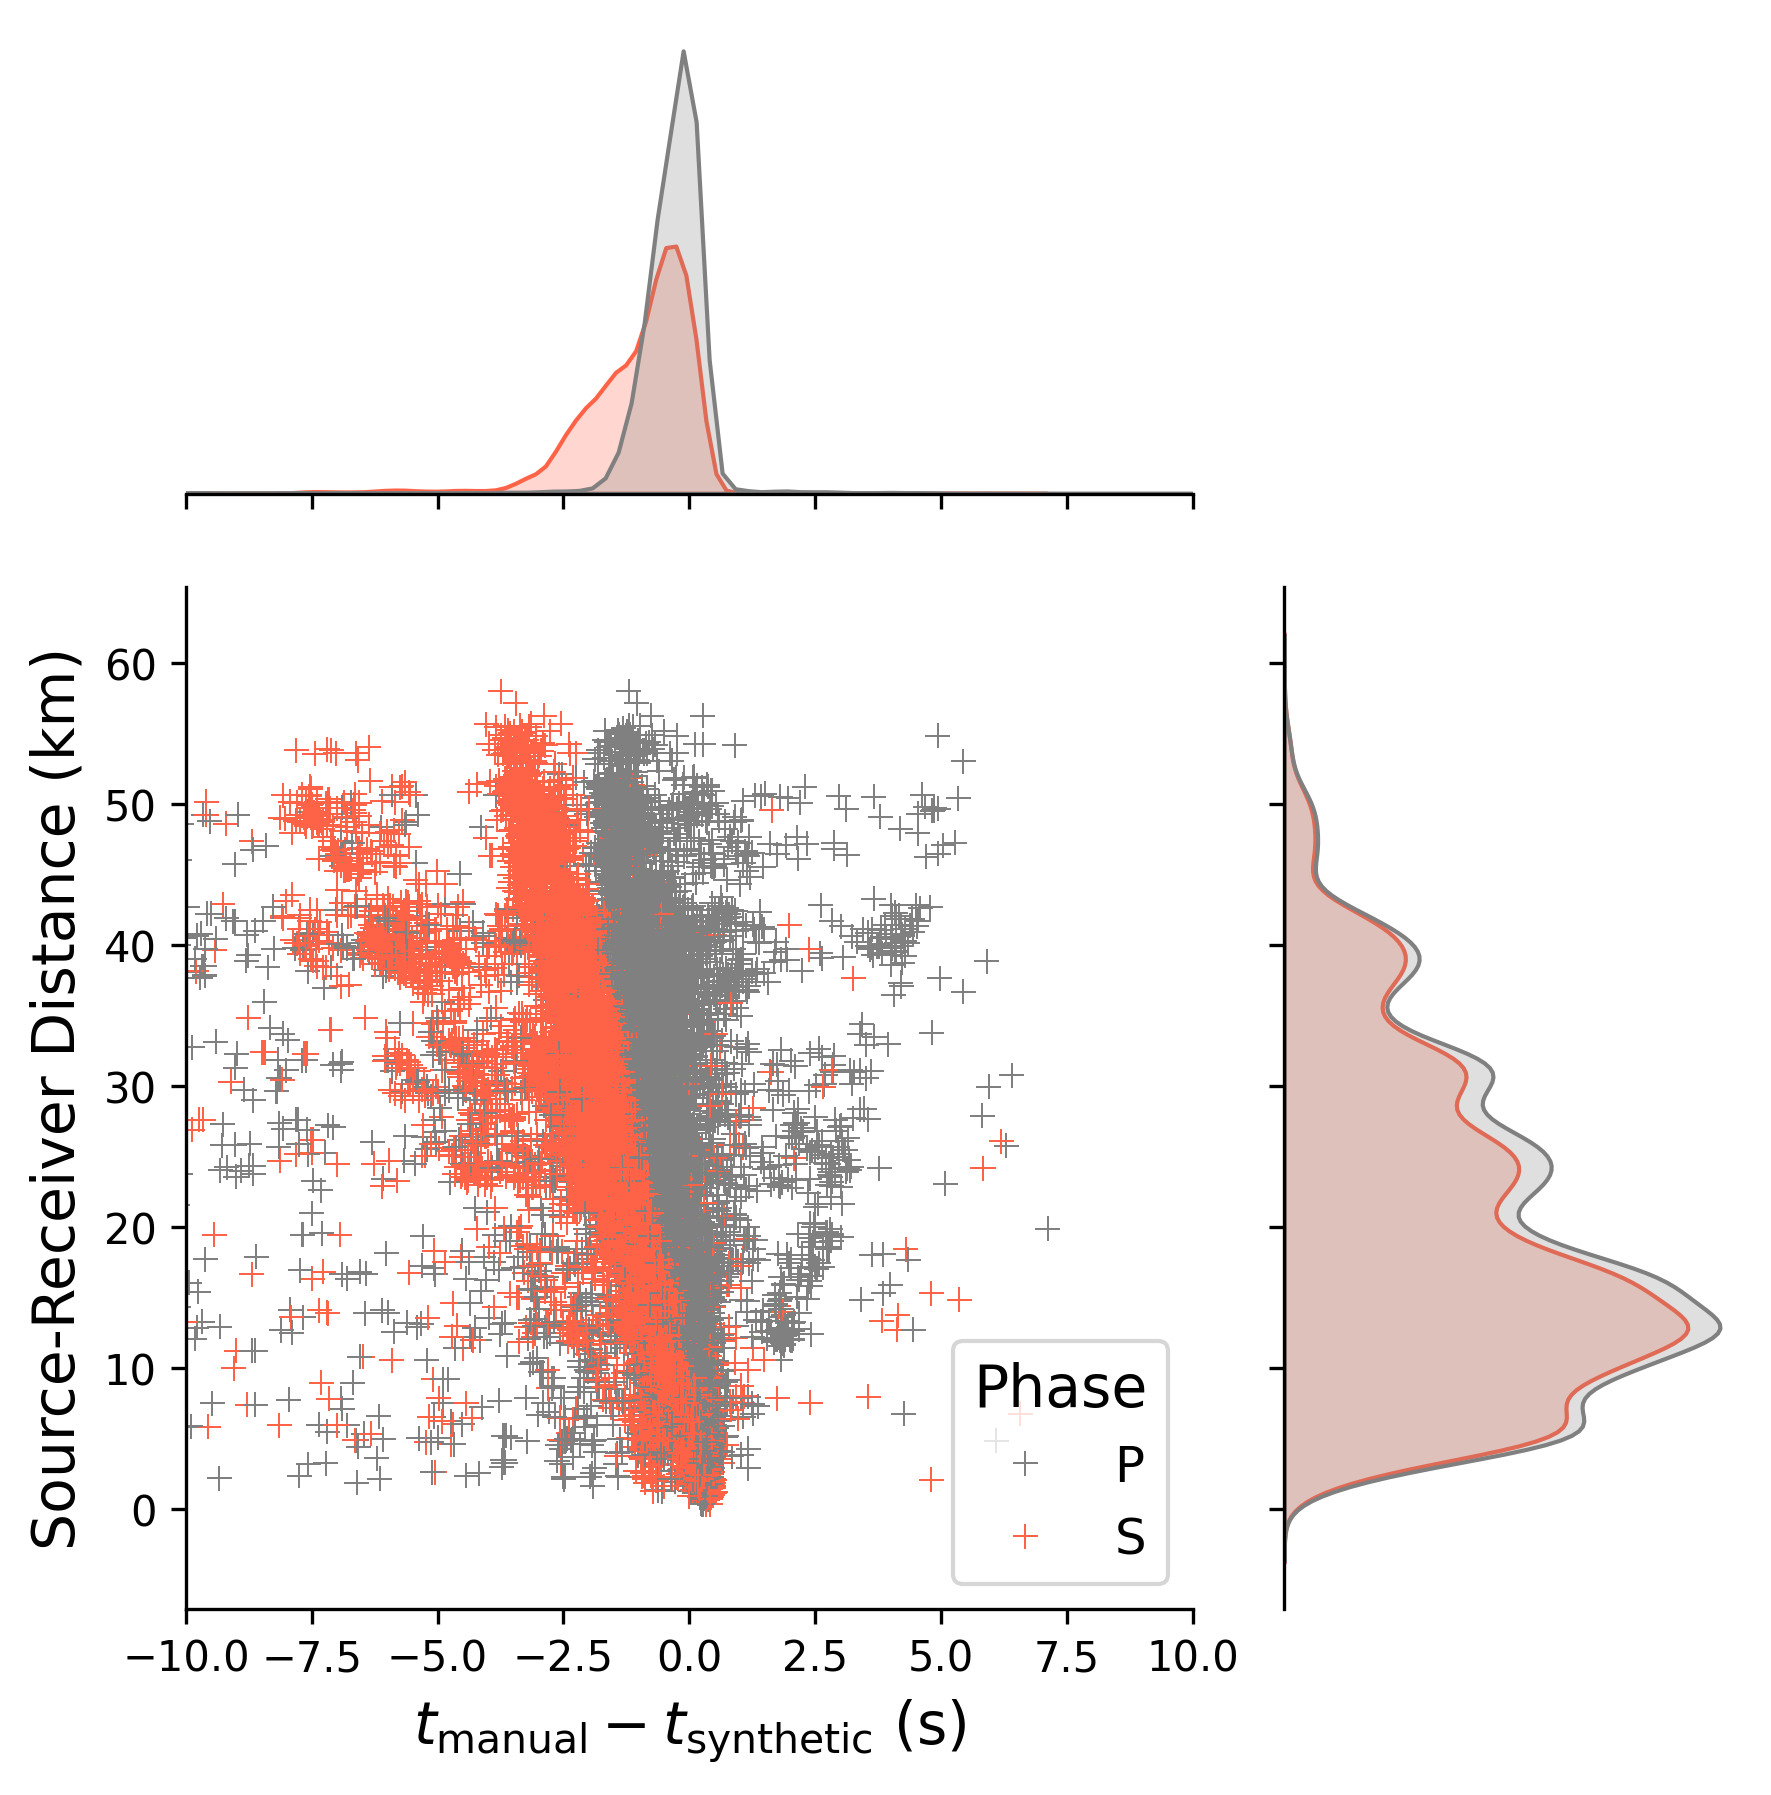
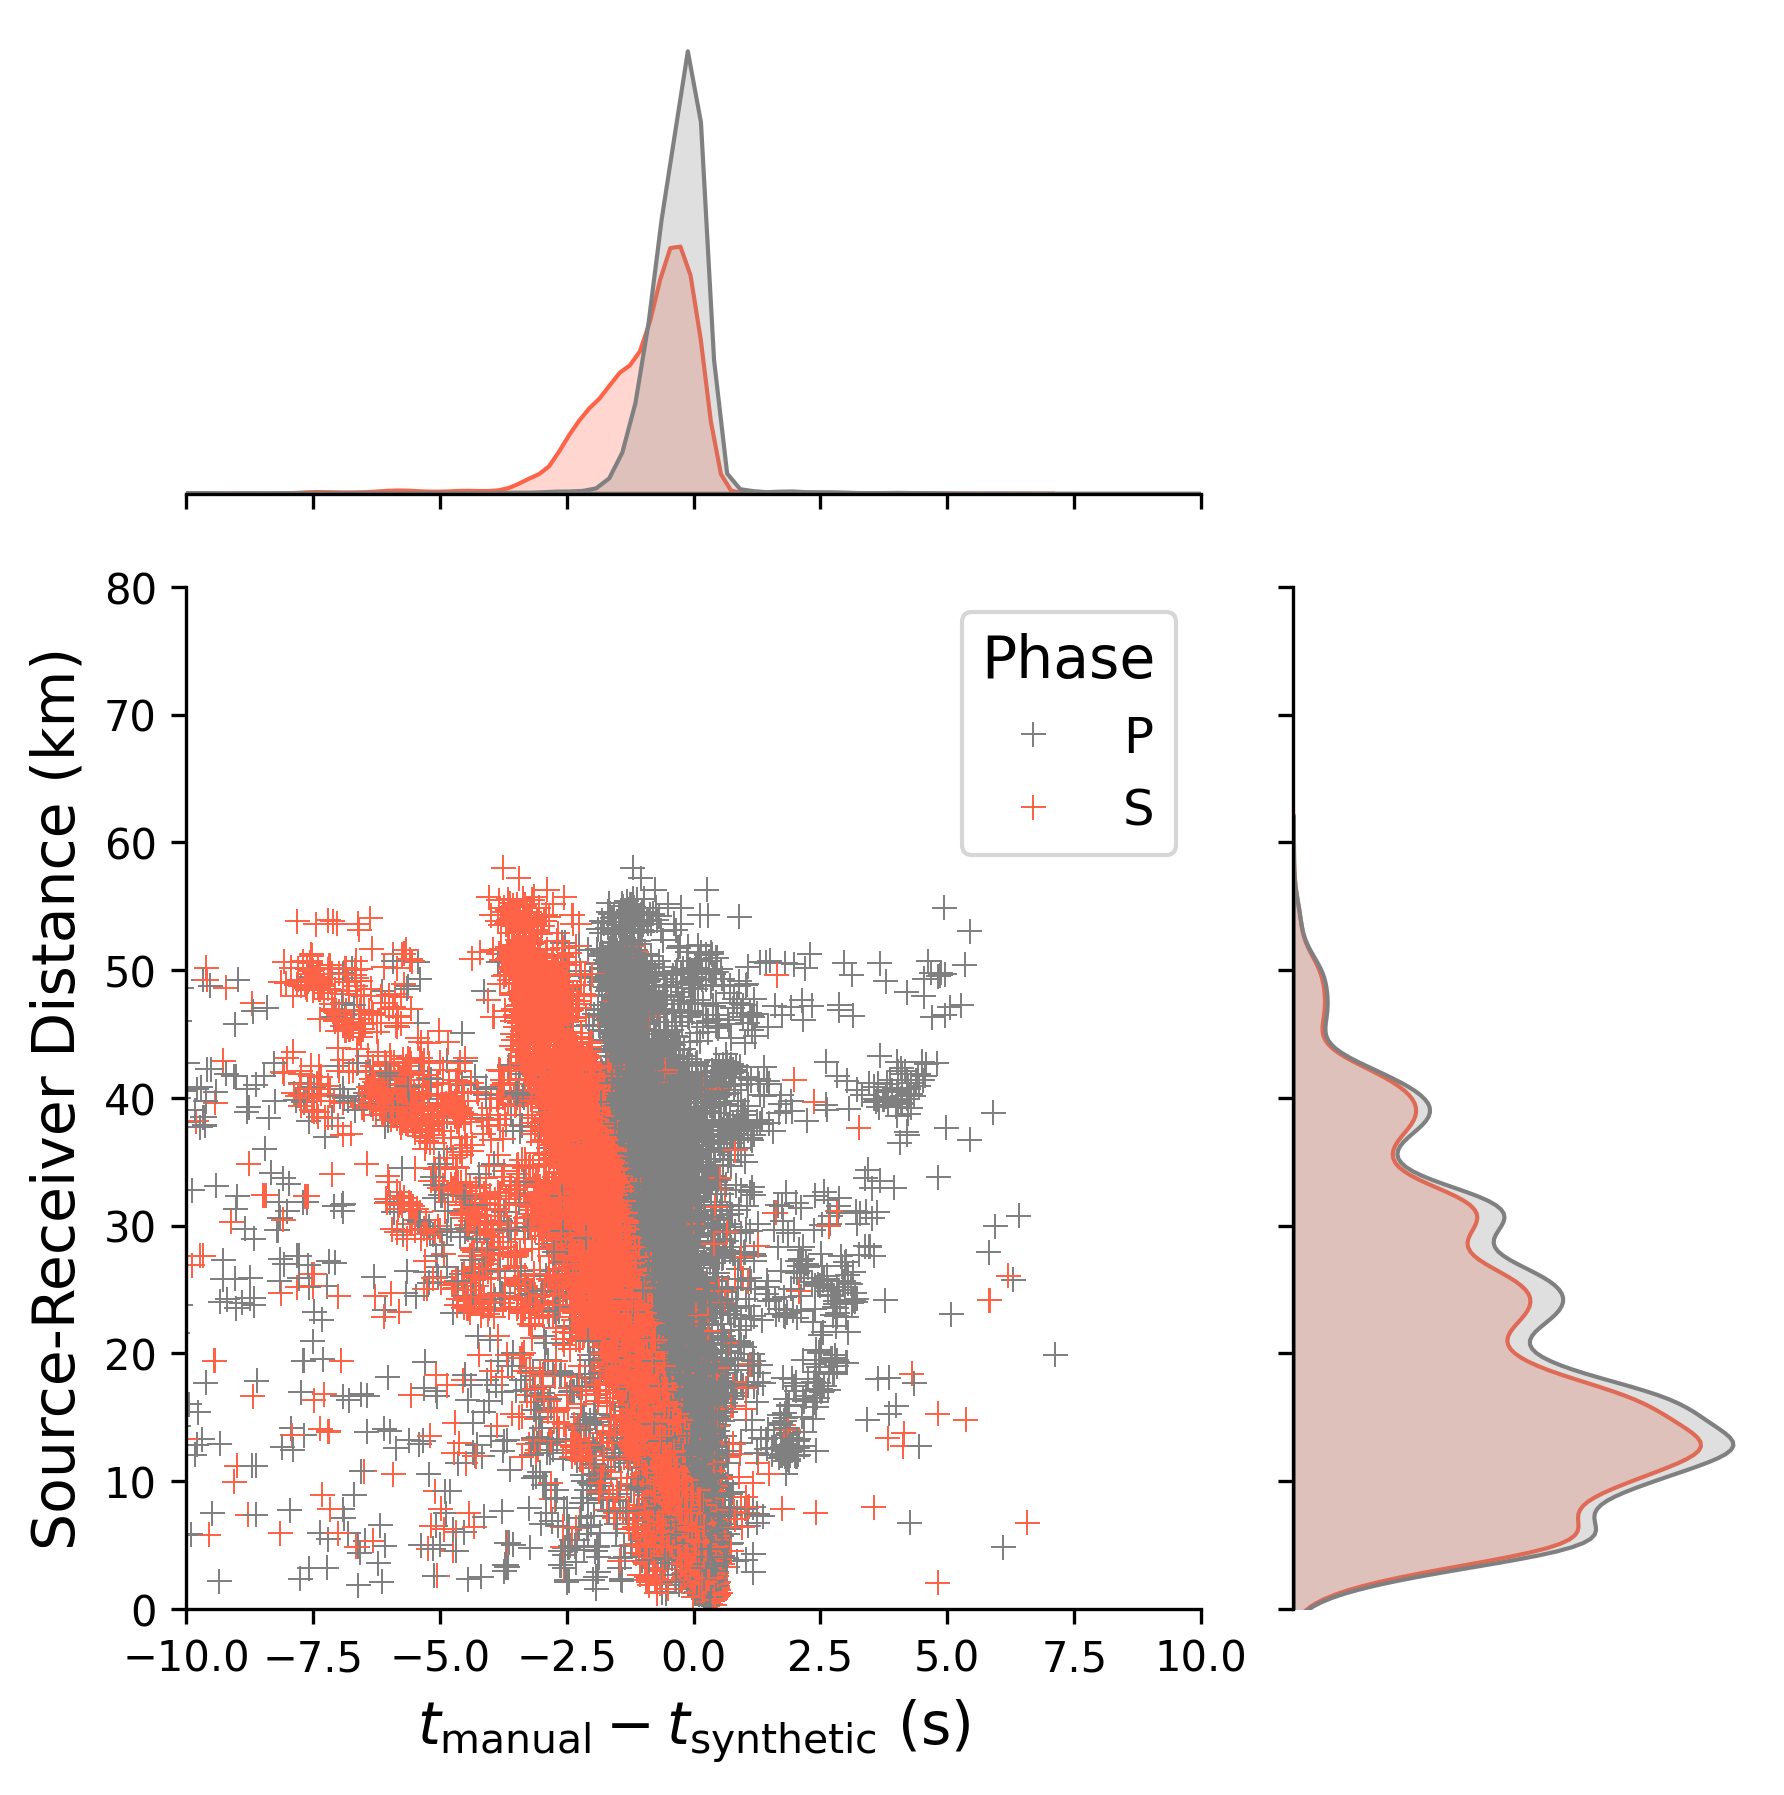
plot_compare_picks

diff --git a/10102024/script/eqpicks/plot_compare_picks.py b/10102024/script/eqpicks/plot_compare_picks.py
@@ -22,6 +22,7 @@ def create_joint_plot(db_path, author,
         palette=["gray", "tomato"],
         marker="+",
         xlim=(-10, 10),
+        ylim=(0, 80),
         ratio=2,
         data=df,
     )
@@ -37,7 +38,7 @@ def create_joint_plot(db_path, author,
     if output is not None:
         # Save the figure with high DPI
         plt.savefig(output_path, dpi=300, bbox_inches='tight')
-    plt.show()
+    
     return g
 
 root = "/home/emmanuel/ecastillo/dev/delaware/10102024/data/eq/aoi"
@@ -46,7 +47,7 @@ author = "usgs_20170101_20240922"
 author2 = "pykonal_growclust"
 proj = "EPSG:3857"
 
-eqpicks = EQPicks(root=root,
+ori_eqpicks = EQPicks(root=root,
                   author=author2,
                   xy_epsg=proj,
                   catalog_header_line=0)
@@ -55,26 +56,32 @@ eqpicks = EQPicks(root=root,
 # output = "/home/emmanuel/ecastillo/dev/delaware/10102024/figures/all_growclust_vs_synthetic.png"
 # create_joint_plot(path, author, output)
 
-# # # Example usage - r1
-# output = "/home/emmanuel/ecastillo/dev/delaware/10102024/figures/r1_growclust_vs_synthetic.png"
-# eqpicks.query(region_lims=[-104.6,-104.4,31.4,31.8])
-# ev_ids = eqpicks.catalog.data["ev_id"].to_list()
-# create_joint_plot(path, author,ev_ids=ev_ids,output_path=output)
+# # Example usage - r1
+output = "/home/emmanuel/ecastillo/dev/delaware/10102024/figures/r1_growclust_vs_synthetic.png"
+eqpicks = ori_eqpicks.copy()
+eqpicks.query(region_lims=[-104.6,-104.4,31.4,31.8])
+ev_ids = eqpicks.catalog.data["ev_id"].to_list()
+create_joint_plot(path, author,ev_ids=ev_ids,output_path=output)
 
-# # Example usage - r2
-# output = "/home/emmanuel/ecastillo/dev/delaware/10102024/figures/r2_growclust_vs_synthetic.png"
-# eqpicks.query(region_lims=[-104.4,-104.2,31.4,31.8])
-# ev_ids = eqpicks.catalog.data["ev_id"].to_list()
-# create_joint_plot(path, author,ev_ids=ev_ids,output_path=output)
+# Example usage - r2
+output = "/home/emmanuel/ecastillo/dev/delaware/10102024/figures/r2_growclust_vs_synthetic.png"
+eqpicks = ori_eqpicks.copy()
+eqpicks.query(region_lims=[-104.4,-104.2,31.4,31.8])
+ev_ids = eqpicks.catalog.data["ev_id"].to_list()
+create_joint_plot(path, author,ev_ids=ev_ids,output_path=output)
 
-# # Example usage - r3
-# output = "/home/emmanuel/ecastillo/dev/delaware/10102024/figures/r3_growclust_vs_synthetic.png"
-# eqpicks.query(region_lims=[-104.2,-104.0,31.4,31.8])
-# ev_ids = eqpicks.catalog.data["ev_id"].to_list()
-# create_joint_plot(path, author,ev_ids=ev_ids,output_path=output)
+# Example usage - r3
+output = "/home/emmanuel/ecastillo/dev/delaware/10102024/figures/r3_growclust_vs_synthetic.png"
+eqpicks = ori_eqpicks.copy()
+eqpicks.query(region_lims=[-104.2,-104.0,31.4,31.8])
+ev_ids = eqpicks.catalog.data["ev_id"].to_list()
+create_joint_plot(path, author,ev_ids=ev_ids,output_path=output)
 
 # Example usage - r4
 output = "/home/emmanuel/ecastillo/dev/delaware/10102024/figures/r4_growclust_vs_synthetic.png"
+eqpicks = ori_eqpicks.copy()
 eqpicks.query(region_lims=[-104.0,-103.8,31.4,31.8])
 ev_ids = eqpicks.catalog.data["ev_id"].to_list()
 create_joint_plot(path, author,ev_ids=ev_ids,output_path=output)
+
+plt.show()
